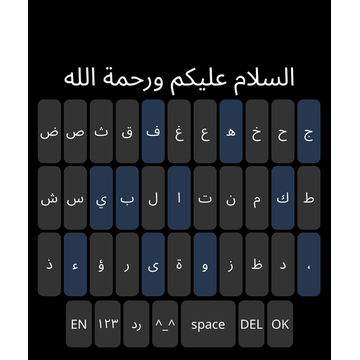
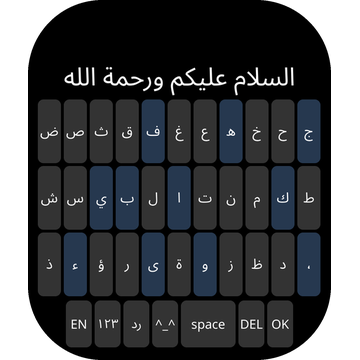
fix(daad-keyboard): round the square store screenshot's corners
The store rejected the watch face's square-cornered preview; the keyboard's rectangular screenshot
had the same corners. It now uses the Bip Max's corner radius from devices.json.

diff --git a/daad-keyboard/tools/gen-previews.py b/daad-keyboard/tools/gen-previews.py
@@ -7,7 +7,7 @@ Sans and Noto Sans Arabic standing in for the system font, fetched by ../../scri
 Writes ../docs/daad-keyboard/store/<lang>-round.png and <lang>-square.png, the app form's screenshots
 (https://docs.zepp.com/docs/distribute/#app-introduction-screenshots): 360 × 360 PNGs on a transparent
 background. Round: the screen fills the canvas, transparent outside the circle. Rectangular: the screen
-scaled to the full height and centred. Run: mise run :gen
+scaled to the full height, centred, with the screen's rounded corners. Run: mise run :gen
 """
 import json
 import subprocess
@@ -27,6 +27,7 @@ SHOT = 360  # the app form's screenshot size, for both shapes
 # shape → the screen drawn (width, height, input field height): the Active 2 Round as measured in the
 # simulator, the Bip Max as measured on the watch
 SHAPES = {"round": (466, 466, 146), "square": (432, 514, 132)}
+RADIUS = json.loads((APP.parent / "devices.json").read_text())["bip-max"]["radius"]  # the square screen's corners
 
 
 def shot(screen, shape):
@@ -35,9 +36,12 @@ def shot(screen, shape):
         mask = Image.new("L", (SHOT * 4, SHOT * 4), 0)
         ImageDraw.Draw(mask).ellipse([0, 0, SHOT * 4 - 1, SHOT * 4 - 1], fill=255)
         canvas.paste(screen.resize((SHOT, SHOT), Image.LANCZOS), (0, 0), mask.resize((SHOT, SHOT), Image.LANCZOS))
-    else:
+    else:  # cut to the Bip Max's rounded corners: the store rejects square-cornered previews
         w = round(screen.width * SHOT / screen.height)
-        canvas.paste(screen.resize((w, SHOT), Image.LANCZOS), ((SHOT - w) // 2, 0))
+        r = RADIUS * SHOT / screen.height
+        mask = Image.new("L", (w * 4, SHOT * 4), 0)
+        ImageDraw.Draw(mask).rounded_rectangle([0, 0, w * 4 - 1, SHOT * 4 - 1], radius=r * 4, fill=255)
+        canvas.paste(screen.resize((w, SHOT), Image.LANCZOS), ((SHOT - w) // 2, 0), mask.resize((w, SHOT), Image.LANCZOS))
     return canvas
 
 
